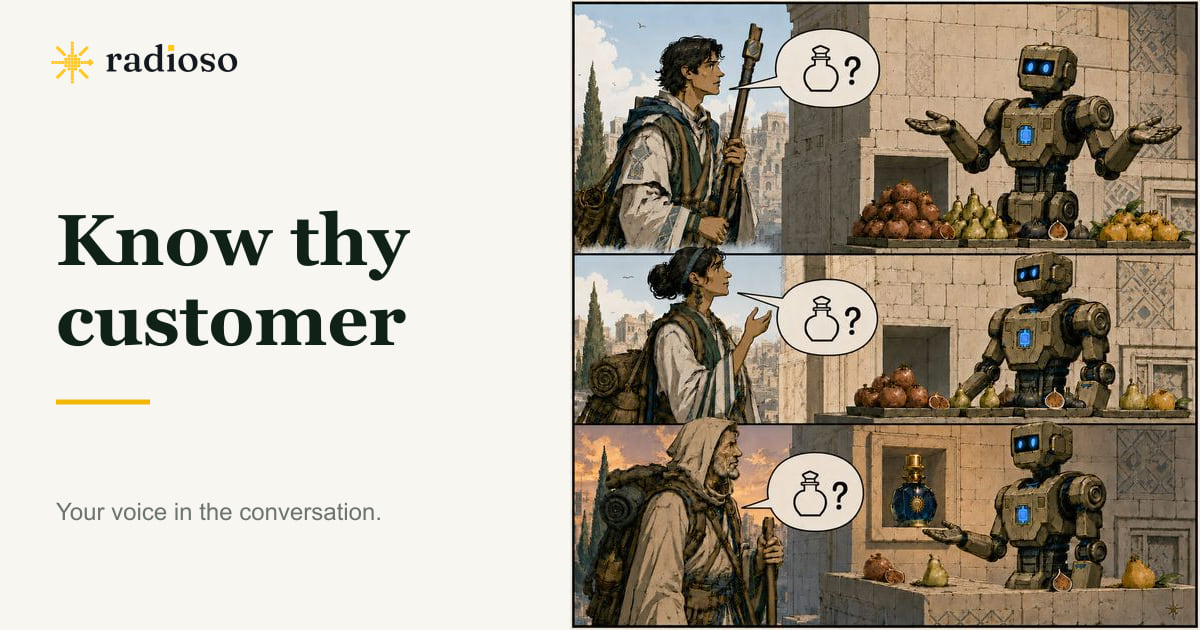
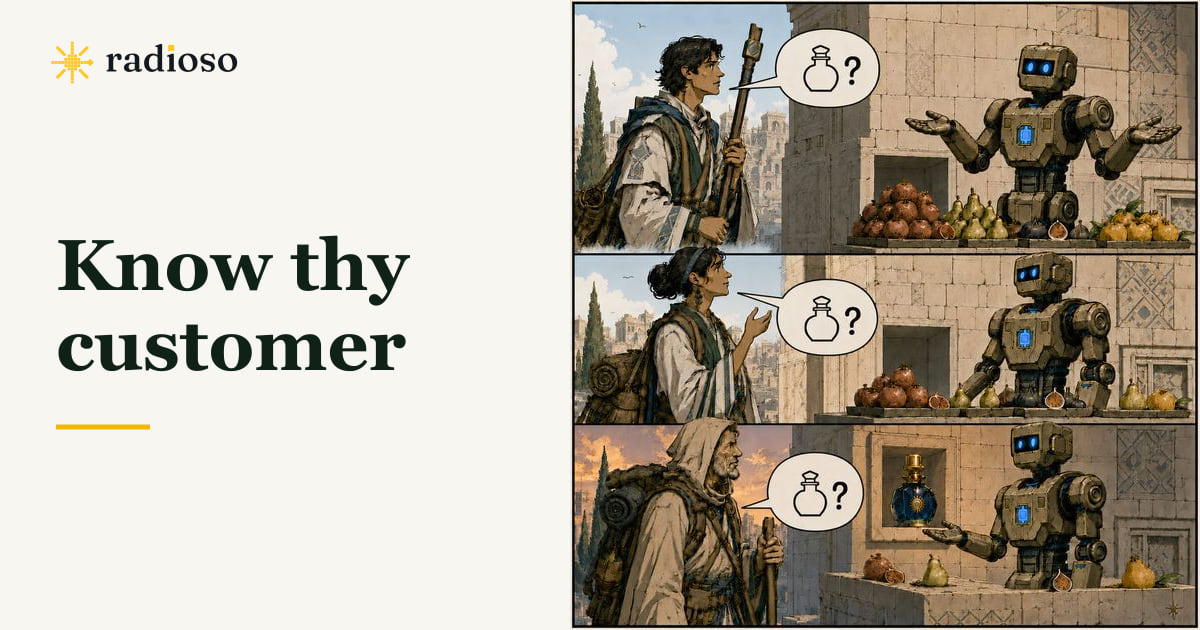
feat: show article artwork in blog index

Changed region(s): [[0.0308, 0.3317, 0.3392, 0.6032], [0.0308, 0.7841, 0.3083, 0.8444], [0.0308, 0.6333, 0.1233, 0.6937]]

diff --git a/app/blog/page.tsx b/app/blog/page.tsx
@@ -1,4 +1,5 @@
 import type { Metadata } from 'next'
+import Image from 'next/image'
 import Link from 'next/link'
 
 import { PageShell } from '@/components/page-shell'
@@ -26,16 +27,35 @@ export default async function BlogIndexPage() {
           <ul className="mt-12 space-y-12">
             {posts.map((post) => (
               <li key={post.slug} className="border-t border-border/70 pt-8">
-                <p className="text-xs uppercase tracking-wide text-muted-foreground">
-                  <time dateTime={post.date}>{formatPostDate(post.date)}</time>
-                  {post.author ? ` · ${post.author}` : ''}
-                </p>
-                <h2 className="mt-3 text-2xl font-semibold tracking-tight text-foreground">
-                  <Link href={`/blog/${post.slug}`} className="underline-offset-4 hover:underline">
-                    {post.title}
-                  </Link>
-                </h2>
-                <p className="mt-3 text-sm leading-7 text-muted-foreground">{post.description}</p>
+                <article className={post.image ? 'grid gap-6 md:grid-cols-[minmax(0,1fr)_12rem] md:items-start' : undefined}>
+                  <div>
+                    <p className="text-xs uppercase tracking-wide text-muted-foreground">
+                      <time dateTime={post.date}>{formatPostDate(post.date)}</time>
+                      {post.author ? ` · ${post.author}` : ''}
+                    </p>
+                    <h2 className="mt-3 text-2xl font-semibold tracking-tight text-foreground">
+                      <Link href={`/blog/${post.slug}`} className="underline-offset-4 hover:underline">
+                        {post.title}
+                      </Link>
+                    </h2>
+                    <p className="mt-3 text-sm leading-7 text-muted-foreground">{post.description}</p>
+                  </div>
+                  {post.image && post.imageAlt ? (
+                    <Link
+                      href={`/blog/${post.slug}`}
+                      aria-label={`Read ${post.title}`}
+                      className="relative order-first block aspect-square w-full max-w-56 overflow-hidden rounded-lg border border-border/70 bg-muted md:order-last md:max-w-none"
+                    >
+                      <Image
+                        src={post.image}
+                        alt={post.imageAlt}
+                        fill
+                        sizes="(min-width: 768px) 192px, 224px"
+                        className="object-cover transition-transform duration-300 hover:scale-[1.02]"
+                      />
+                    </Link>
+                  ) : null}
+                </article>
               </li>
             ))}
           </ul>
